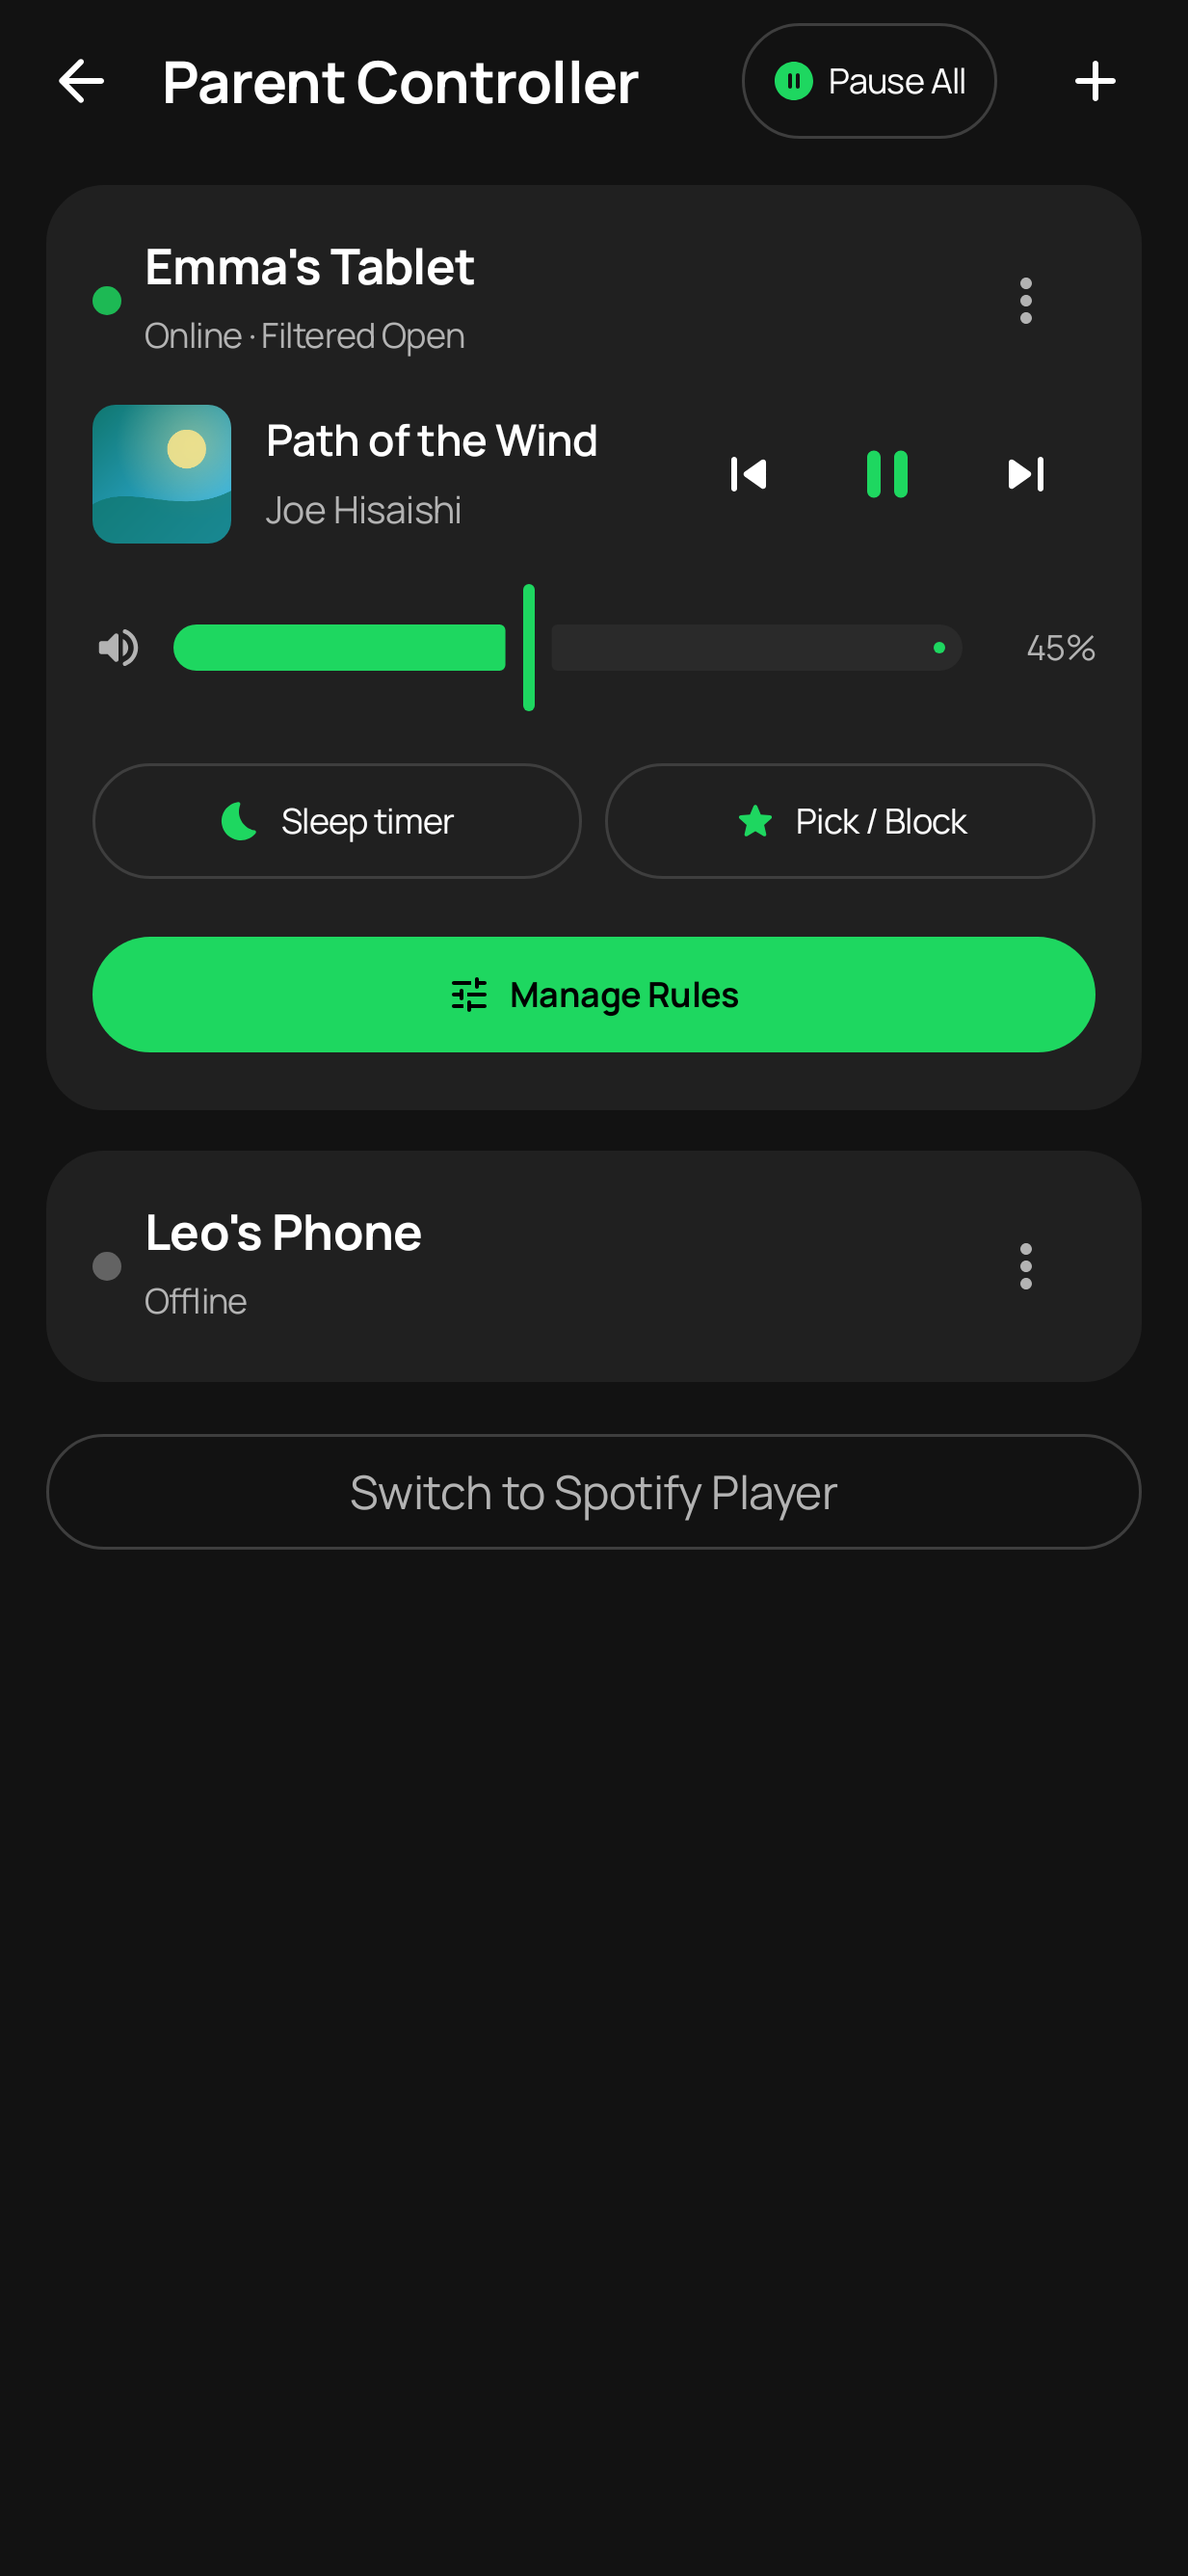
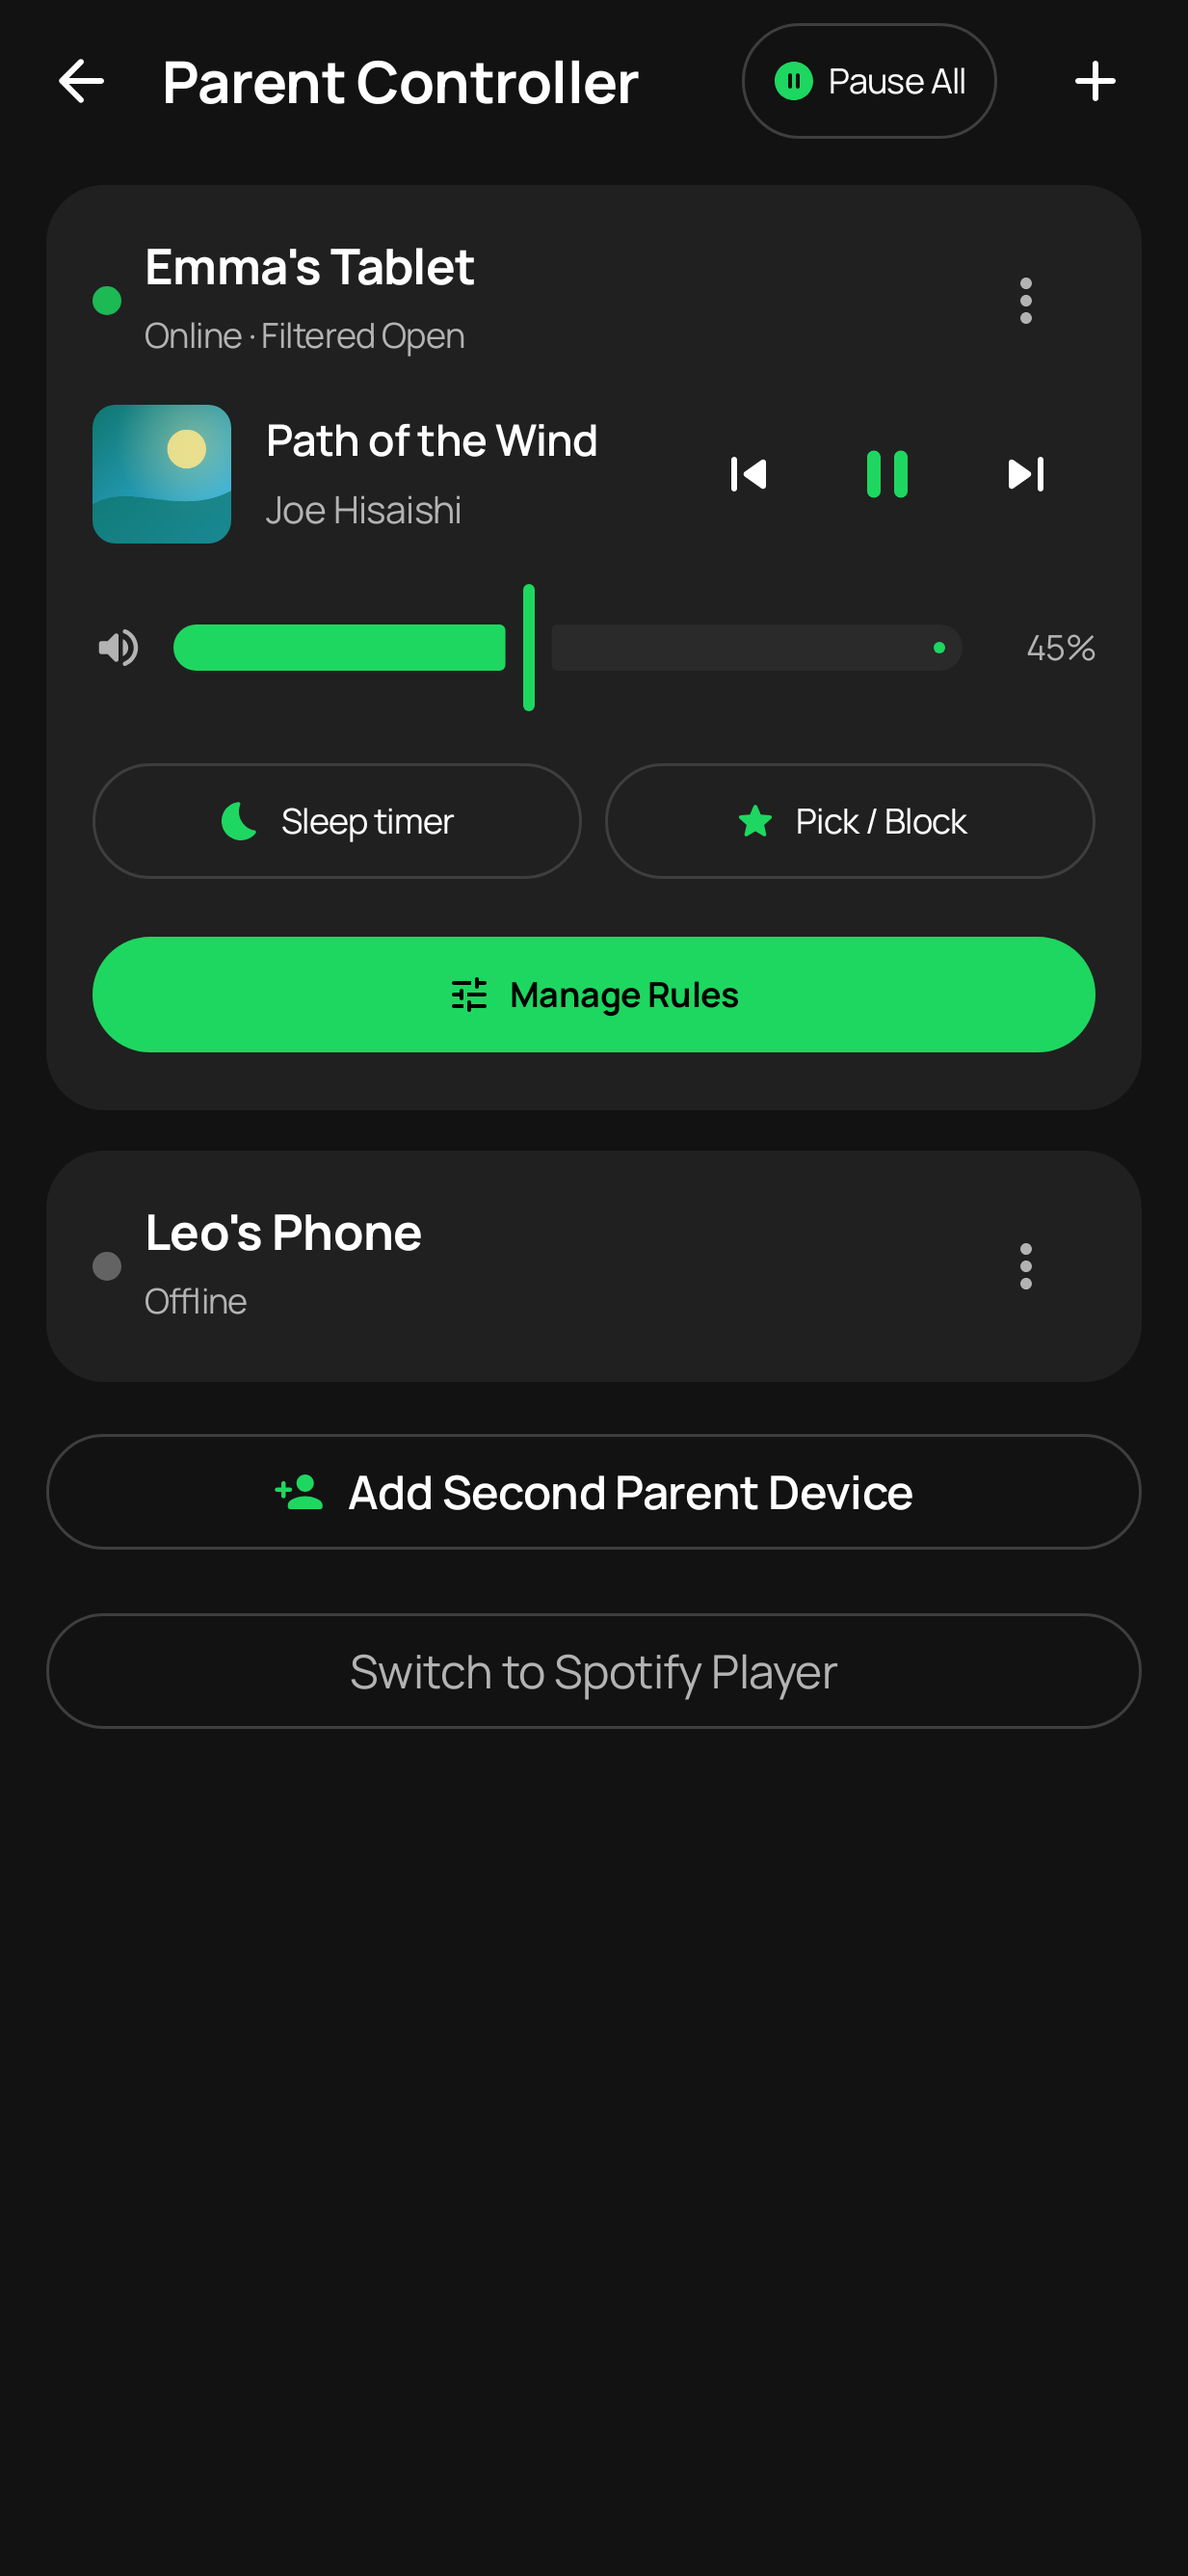
docs: update README and screenshots for second parent transfer

Changed region(s): [[0.2466, 0.5589, 0.7705, 0.59], [0.3082, 0.621, 0.7088, 0.6831]]

diff --git a/base/app/src/test/java/io/github/thake/soundnest/core/ui/DocScreenshotTest.kt b/base/app/src/test/java/io/github/thake/soundnest/core/ui/DocScreenshotTest.kt
@@ -354,6 +354,7 @@ class DocScreenshotTest {
         ParentSecurityManager.resetForTests(app)
         io.github.thake.soundnest.feature.parental.remote.settings.RemotePolicySession.resetForTests(app)
         io.github.thake.soundnest.feature.parental.remote.net.ChildRemoteServer.resetForTests()
+        io.github.thake.soundnest.feature.parental.remote.net.ParentTransferServer.resetForTests()
         io.github.thake.soundnest.feature.parental.remote.settings.PairedDevicesStore.resetForTests(app)
         io.github.thake.soundnest.feature.parental.remote.settings.DeviceRoleStore.resetForTests(app)
         io.github.thake.soundnest.feature.parental.schedule.ParentalScheduleController.resetForTests()
@@ -489,6 +490,7 @@ class DocScreenshotTest {
         ShadowLooper.idleMainLooper()
         io.github.thake.soundnest.feature.parental.remote.settings.RemotePolicySession.resetForTests(app)
         io.github.thake.soundnest.feature.parental.remote.net.ChildRemoteServer.resetForTests()
+        io.github.thake.soundnest.feature.parental.remote.net.ParentTransferServer.resetForTests()
         io.github.thake.soundnest.feature.parental.remote.settings.PairedDevicesStore.resetForTests(app)
         io.github.thake.soundnest.feature.parental.remote.settings.DeviceRoleStore.resetForTests(app)
         io.github.thake.soundnest.feature.parental.schedule.ParentalScheduleController.resetForTests()
@@ -1035,6 +1037,15 @@ class DocScreenshotTest {
                 child = requireNotNull(remoteLoopbackChild),
                 onBack = {},
                 initialTab = 1,
+            )
+        }
+        add("Parental Controls & Security", "parental/23-add-second-parent-dialog.png", "Parent Device Mode: Add Second Parent", "Single-use encrypted QR / 6-digit code dialog to transfer all paired children to a second Parent Device over Wi-Fi.", Look.CLASSIC, remoteHubPrep) {
+            val palette = io.github.thake.soundnest.core.ui.settings.rememberM3SettingsPalette()
+            io.github.thake.soundnest.feature.parental.remote.ui.ParentHubScreen(isDedicatedMode = true, onBack = {}, onSwitchToStandardMode = {})
+            io.github.thake.soundnest.feature.parental.remote.ui.AddSecondParentDialog(
+                palette = palette,
+                bindAddress = java.net.InetAddress.getLoopbackAddress(),
+                onDismiss = {},
             )
         }
 

diff --git a/docs/screenshots/README.md b/docs/screenshots/README.md
@@ -2,12 +2,12 @@
 
 Auto-generated deterministically by `./gradlew :app:generateDocScreenshots` ([`DocScreenshotTest.kt`](../../base/app/src/test/java/io/github/thake/soundnest/ui/DocScreenshotTest.kt)).
 
-Total captured screens, panels, dialogs & sheets: **150**.
+Total captured screens, panels, dialogs & sheets: **151**.
 
 ## Contents
 - [Hero Overview (9)](#hero-overview)
 - [Onboarding & Session (9)](#onboarding-session)
-- [Parental Controls & Security (23)](#parental-controls-security)
+- [Parental Controls & Security (24)](#parental-controls-security)
 - [Classic Look (44)](#classic-look)
 - [Immersive Look (50)](#immersive-look)
 - [Sheets & Modals (15)](#sheets-modals)
@@ -67,6 +67,7 @@ Total captured screens, panels, dialogs & sheets: **150**.
 | **Family Remote Control & Pairing** (`CLASSIC`) | <img src="parental/20-family-remote-pairing.png" width="180" alt="Family Remote Control & Pairing" /> | [`parental/20-family-remote-pairing.png`](parental/20-family-remote-pairing.png)<br/>Child device pairing screen with paired parents list, QR code, and 6-digit one-time pairing code. |
 | **Parent Device Mode: Multi-Child Hub** (`CLASSIC`) | <img src="parental/21-parent-device-hub.png" width="180" alt="Parent Device Mode: Multi-Child Hub" /> | [`parental/21-parent-device-hub.png`](parental/21-parent-device-hub.png)<br/>Dedicated Parent Device hub controlling multiple paired children over encrypted home Wi-Fi. |
 | **Parent Device Mode: Remote Pick / Block** (`CLASSIC`) | <img src="parental/22-remote-catalog-browser.png" width="180" alt="Parent Device Mode: Remote Pick / Block" /> | [`parental/22-remote-catalog-browser.png`](parental/22-remote-catalog-browser.png)<br/>Remote Spotify Search, Child Library, and Audible catalog browser with instant Pick / Block syncing. |
+| **Parent Device Mode: Add Second Parent** (`CLASSIC`) | <img src="parental/23-add-second-parent-dialog.png" width="180" alt="Parent Device Mode: Add Second Parent" /> | [`parental/23-add-second-parent-dialog.png`](parental/23-add-second-parent-dialog.png)<br/>Single-use encrypted QR / 6-digit code dialog to transfer all paired children to a second Parent Device over Wi-Fi. |
 
 ## Classic Look
 

diff --git a/README.md b/README.md
@@ -116,6 +116,7 @@ Install SoundNest on your own phone and choose **Parent Device** on the welcome 
 - **Unified Parental Controls UI**: Tap **Manage Rules** on any online child card to open the exact same full Parental Controls screens as on the child's device — filter modes, Home shelves, Spotify/Audible gates, listening hours, and speakers — with every change syncing live over Wi-Fi.
 - **Remote Pick / Block Catalog Browser**: Tap **Pick / Block** to search Spotify and browse your child's Library and Audible catalog directly through the child's device (keeping all Spotify/Audible credentials exclusively on the child device), picking or blocking songs, albums, artists, playlists, and audiobooks with one tap.
 - **Push to Other Children**: Apply one child's rules to selected sibling devices over Wi-Fi in a single tap.
+- **Add Second Parent Device**: Tap **Add Second Parent Device** on an already-paired parent phone to show a single-use QR / 6-digit code and transfer **all** paired children's devices to a co-parent's phone in one scan — online children immediately register an independent revocable key for the second parent, while offline/asleep children transfer via a temporary delegated key that automatically upgrades on first contact.
 
 ### 8. Allowed Listening Hours & Bedtime Inactivity Sleep Timer
 Under **Listening Hours & Bedtime** in the Parental Controls Dashboard:
